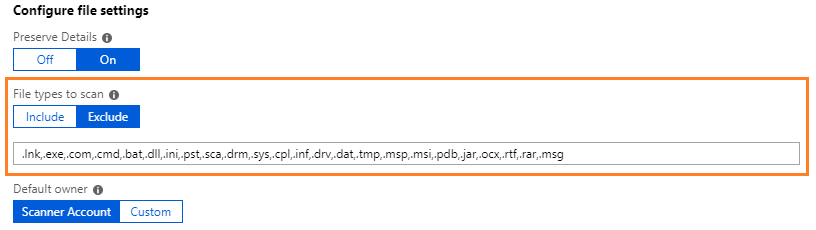
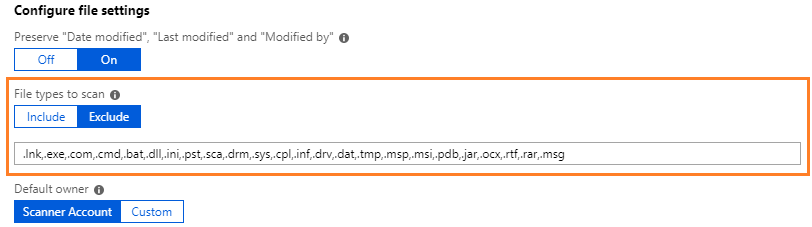
update screenshot & remove ref to quotes for paths

Changed region(s): [[0.0, 0.2467, 1.0, 0.9868], [0.0, 0.1233, 0.431, 0.2159], [0.0, 0.0, 0.1847, 0.0925]]

diff --git a/Azure-RMSDocs/deploy-aip-scanner-preview.md b/Azure-RMSDocs/deploy-aip-scanner-preview.md
@@ -182,7 +182,7 @@ Before you install the scanner, or upgrade it from the general availability vers
 
 8. On the **Repository** blade, specify the path for the data repository. 
     
-    Wildcards are not supported and WebDav locations are not supported. Paths can include spaces when you enclose the path value with quotes.
+    Wildcards are not supported and WebDav locations are not supported.
     
     Examples:
     
@@ -197,9 +197,9 @@ Before you install the scanner, or upgrade it from the general availability vers
     > [!TIP]
     > If you add a SharePoint path for "Shared Documents":
     >
-     >- Specify "Shared Documents" in the path when you want to scan all documents and all folders from Shared Documents. For example: `"http://sp2013/Shared Documents"`
+     >- Specify "Shared Documents" in the path when you want to scan all documents and all folders from Shared Documents. For example: `http://sp2013/Shared Documents`
      >
-     >- Specify "Documents" in the path when you want to scan all documents and all folders from a subfolder under Shared Documents. For example: `"http://sp2013/Documents/Sales Reports"`
+     >- Specify "Documents" in the path when you want to scan all documents and all folders from a subfolder under Shared Documents. For example: `http://sp2013/Documents/Sales Reports`
     
     For the remaining settings on this blade, do not change them for this initial configuration, but keep them as **Profile default**. This means that the data repository inherits the settings from the scanner profile. 
     
